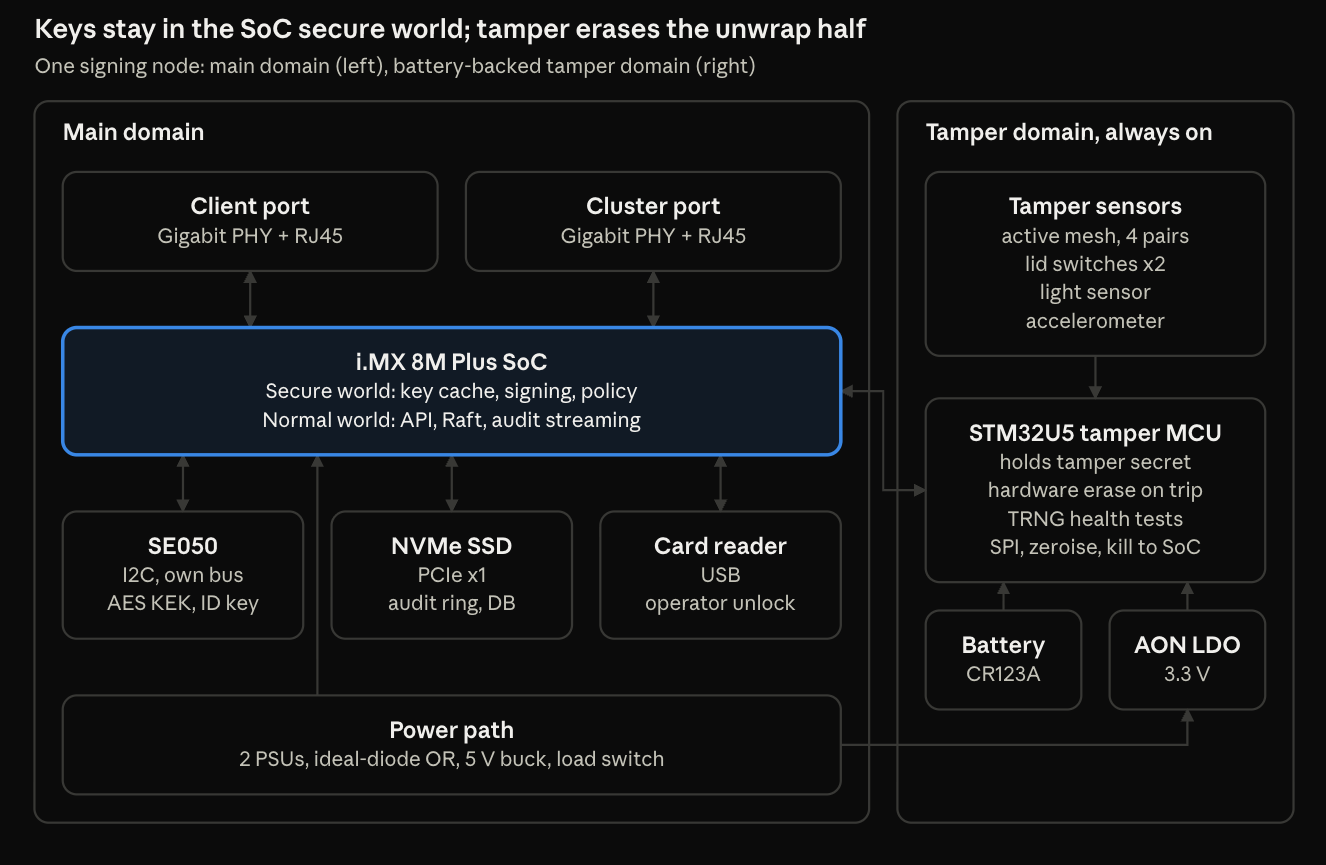
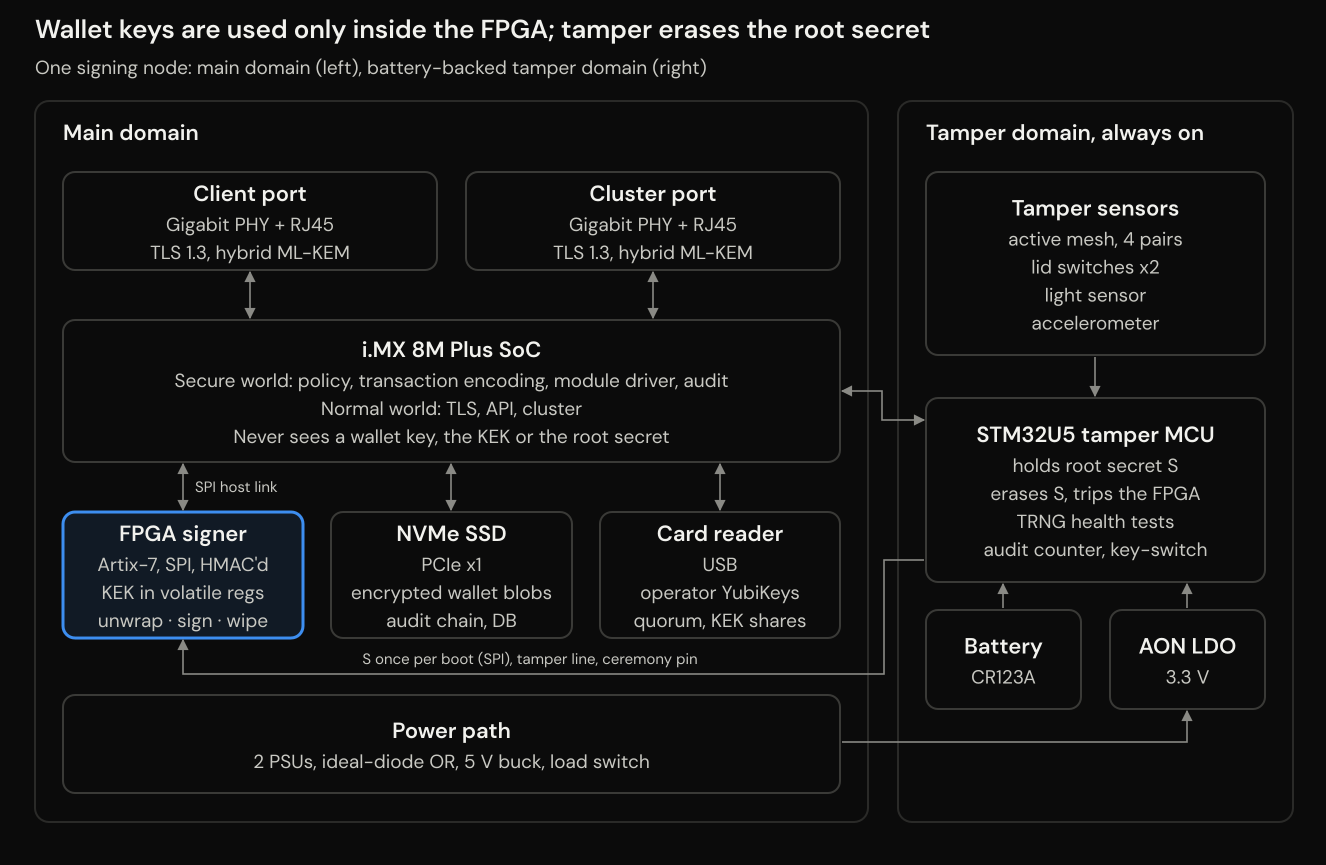
Parts

diff --git a/README.md b/README.md
@@ -2,68 +2,185 @@
 
 An open-source, DIY hardware security module designed to run as a redundant cluster for high-throughput crypto wallet signing.
 
-OpenVault is a reference design for building your own HSM cluster from off-the-shelf parts. It includes open hardware, open firmware and reproducible builds. A six-node cluster across two sites sustains **1,000 signed transfers per second** even with a whole site offline, and each node holds **10,000 wallets** derived from a single root seed.
+OpenHSM is a reference design for building your own HSM cluster from off-the-shelf parts. It includes open hardware, open firmware and reproducible builds. Each node signs with an FPGA that does one job, secp256k1 ECDSA for Ethereum and Bitcoin, at an estimated **28 to 55 signatures per second per node**, and any node can sign for any of **10,000 wallets** because the FPGA keeps no wallet state. Throughput grows with the number of nodes; see [Estimated throughput](#estimated-throughput).
 
 ## Highlights
 
-- **Keys never leave the secure world.** Signing runs inside OP-TEE on an NXP i.MX 8M Plus. An NXP SE050 secure element and a battery-backed STM32U5 tamper supervisor each hold half of the node's unwrap key.
-- **Active tamper response.** A mesh enclosure, lid switches, a light sensor and an accelerometer trigger hardware erasure of the unwrap secret.
+- **Wallet keys are only used inside the FPGA.** A Xilinx Artix-7 signing module generates wallet keys, unwraps them under the cluster key-encryption key (KEK) and signs. Keys are stored only as AES-256-GCM blobs. The NXP i.MX 8M Plus handles TLS, policy and transaction encoding but never sees a private key, the KEK or the root secret.
+- **Authenticated host link.** Every command and every response between the SoC and the FPGA carries an HMAC, over an SPI link fast enough for future post-quantum signatures.
+- **Active tamper response.** A battery-backed STM32U5 supervisor holds the root secret S. A mesh enclosure, lid switches, a light sensor and an accelerometer make it erase S and clear the FPGA's key registers.
 - **Built for failure.** Raft replication with a keyless witness at a third site. Failover takes under 5 s, and the cluster survives the loss of a full site.
 - **Policy enforced on the HSM.** Per-wallet spending caps, allow-lists and leased daily limits stop a compromised application server from draining funds.
-- **Layered backup.** Live replicas, encrypted off-site snapshots, and a root seed split 3-of-5 with SLIP-39.
-- **Multi-chain.** Supports secp256k1 ECDSA, BIP-340 Schnorr and Ed25519, covering Bitcoin, Ethereum and EVM chains, Solana, Cosmos and more.
+- **Layered backup.** Live replicas, encrypted off-site snapshots, and the KEK split m-of-n with Shamir sharing, one share per operator card (YubiKey).
+- **Ethereum and Bitcoin.** secp256k1 ECDSA only, done in hardware: Ethereum and EVM transactions (EIP-1559, EIP-155, ERC-20) and Bitcoin native SegWit (P2WPKH). BIP-340 Schnorr and Ed25519 are not supported.
 - **Preparing for post-quantum Ethereum.** Hybrid ML-KEM TLS on every network link, an SPI host link with room for kilobyte hash-based signatures, and a Keccak-256 core in the FPGA. The plan for Ethereum's move to hash-based signatures is in [docs/POST_QUANTUM.md](docs/POST_QUANTUM.md).
 
 ## What's in this repo
 
 Schematics and signal-level netlists, a full bill of materials, cluster architecture, capacity maths, the key hierarchy and ceremony, disaster-recovery runbooks, and a build and test checklist.
 
-> **Note:** OpenVault is not FIPS 140-3 or Common Criteria certified. Where regulation or insurance requires certified key storage, use it for development or lower-value hot wallets, or keep the root seed in a certified device. Benchmark on your own hardware before going live.
+> **Note:** OpenHSM is not FIPS 140-3 or Common Criteria certified. Where regulation or insurance requires certified key storage, use it for development or lower-value hot wallets, or keep the KEK backups in a certified device. Benchmark on your own hardware before going live.
 
 ![OpenHSM Site Architecture](./OpenHSM_Site_Architecture.png)
 
 ![OpenHSM Node Architecture](./OpenHSM_Architecture.png)
 
+# Estimated throughput
+
+Every node can sign for every wallet, so cluster throughput is the per-node rate times the number of nodes serving requests. The per-node rate is set by the FPGA:
+
+| Signature check (`VERIFY_SIGN`) | Time per request | Per node |
+|---|---|---|
+| On (default): each signature is checked before release, which catches fault attacks | 34.9 ms | **28.6 sig/s** |
+| Off | 18.2 ms | **54.9 sig/s** |
+
+| Nodes | All nodes up, check on | All nodes up, check off | One node down, check on | One node down, check off |
+|---|---|---|---|---|
+| 2 | 57 | 110 | 29 | 55 |
+| 3 | 86 | 165 | 57 | 110 |
+| 4 | 115 | 220 | 86 | 165 |
+| 5 | 143 | 275 | 115 | 220 |
+| 6 | 172 | 330 | 143 | 275 |
+| 7 | 201 | 385 | 172 | 330 |
+| 8 | 229 | 440 | 201 | 385 |
+| 9 | 258 | 495 | 229 | 440 |
+| 10 | 287 | 549 | 258 | 495 |
+
+Signatures per second, rounded. For two sites with one site lost, read the row for the nodes left standing (six nodes across two sites: the row for 3).
+
+How these were worked out, and what they leave out:
+
+- The FPGA time is from simulation at a 100 MHz clock: 3,469,730 cycles per signature with the check on (34.7 ms), plus about 0.2 ms on the 12.5 MHz SPI link. Nothing has been measured on hardware.
+- The SoC's own work per request (TLS, request signature check, policy, transaction encoding, audit write) is assumed to keep up with the FPGA. It has not been measured on the i.MX 8M Plus.
+- Load is assumed to spread evenly across nodes, and signing needs no cluster round trip (spending limits use leases).
+- The RTL does not yet fit the XC7A50T (see the bill of materials). A larger part or a smaller design does not change these rates.
+
+The earlier target of 1,000 signatures per second would need 35 nodes with the check on, or 19 with it off. The ways to raise the per-node rate are a second signer core in the FPGA (section 9 of the [FPGA specification](FPGA/README.md)) or a faster clock after timing closure.
+
+# Market competitiveness
+
+The HSM market was worth roughly US$2 billion in 2026 and is forecast to grow 10 to 15% a year ([Mordor Intelligence](https://www.mordorintelligence.com/industry-reports/hardware-security-modules-market), [MarketsandMarkets](https://www.marketsandmarkets.com/Market-Reports/hardware-security-modules-market-162277475.html)). Payment processing is the largest use; blockchain and crypto custody is a smaller, faster-growing part, pushed in Europe by MiCA. A few vendors (Thales, Entrust, Utimaco) dominate, and appliances typically sell for US$20,000 to 50,000 each before licences ([ABI Research](https://abiresearch.com/market-research/insight/7783874-nitrokey-hsm-a-tough-sell-in-a-highly-dema)). Much institutional crypto custody has moved to MPC platforms such as Fireblocks, BitGo and Cobo instead of HSMs.
+
+| | OpenHSM (this design) | Securosys Primus X | Thales Luna Network HSM 7 | AWS CloudHSM | Nitrokey NetHSM | MPC platforms (e.g. Fireblocks) |
+|---|---|---|---|---|---|---|
+| Kind | Open hardware HSM node, crypto-only | Appliance with blockchain features | General-purpose appliance | Rented HSM | Open-source general-purpose appliance | Software key shares, managed service |
+| Price | About US$640–1,200 per node in one-off parts ([costing](#estimated-cost-per-node)) | Not published | Not published; market typical US$20,000–50,000 | US$1.60 an hour per HSM, about US$1,150 a month | Under €10,000 | Subscription, not published |
+| Elliptic-curve signing speed per unit | 28.6–55 sig/s (estimate, secp256k1) | 30,000 ECC-256 per second (X2P EC) | Over 20,000 ECC operations per second | Not compared here | "Thousands" of key operations per second | Software; not HSM-bound |
+| Certification | None | FIPS 140 validated | FIPS validated | FIPS validated | Not checked | Depends on provider |
+| Source code | Hardware, RTL and software all open | Closed | Closed | Closed | Open | Closed |
+| Crypto policy inside the HSM (limits, allow-lists) | Yes | Blockchain-specific features | No | No | No | Yes, in the platform |
+| Post-quantum | Hybrid ML-KEM TLS now; hash-based signing planned ([plan](docs/POST_QUANTUM.md)) | PQC and hybrid signatures supported | PQC listed | Not covered here | Not covered here | Not covered here |
+
+Vendor figures are as each vendor publishes them and are not directly comparable: they are for general ECC (usually P-256) on production hardware, against an estimate for secp256k1 from simulation.
+
+**Where OpenHSM can win**
+
+- **Cost.** A first costing puts a node at about US$640–1,200 in one-off parts ([details](#estimated-cost-per-node)). Ten nodes, about 290 signatures a second today, come to roughly US$6,400–12,000: less than one US$20,000–50,000 appliance, and with no single point of failure.
+- **Transparency.** Everything is open down to the signing logic in the FPGA, not just the firmware. Buyers can audit what signs their keys, and there is no vendor to trust with backdoors or end-of-life decisions.
+- **Built for crypto custody.** Spending caps, allow-lists and daily limits are enforced on the HSM, so a compromised application server cannot drain wallets. General-purpose HSMs leave that to the application.
+- **No counterparty.** Self-hosted, unlike rented or managed custody.
+- **Early on Ethereum's post-quantum path.** The host link, hash core and key-transfer design are already aimed at Ethereum's move to hash-based signatures.
+
+**Where it does not compete yet**
+
+- **Throughput.** Commercial appliances are roughly 400 to 1,000 times faster per unit. OpenHSM makes up for it only by running many cheap nodes. A second signer core and a larger FPGA are the main levers.
+- **Certification.** Without FIPS 140-3 or Common Criteria it cannot be the key store of a regulated or qualified custodian, which is where much of the growth is (MiCA). See [Compliance mapping](docs/COMPLIANCE.md).
+- **Maturity.** No hardware has been built, the FPGA design does not yet fit the chosen part, and there has been no independent review.
+- **Scope.** secp256k1 only: no Ed25519 or Schnorr chains, no general PKI or payment use.
+- **Support.** No company behind it, no service-level agreement.
+
+**Best fit today:** smaller exchanges, funds, DAOs and Web3 teams who want to hold their own Ethereum and Bitcoin keys, cannot justify US$20,000+ appliances or a managed-custody subscription, and value an auditable design over certification. Also suitable for research and teaching.
+
+Sources: [Securosys Primus X2 factsheet](https://securosys.com/hubfs/2%20WEBSITE%20/2.1%20Products%20/2.1%20Factsheets/202502_Factsheet_X2_EN_v2.1.pdf), [Securosys Primus HSM docs](https://docs.securosys.com/primus-hsm/overview), [Thales Luna Network HSM 7](https://cpl.thalesgroup.com/encryption/hardware-security-modules/luna-7-network-hsm), [AWS: KMS or CloudHSM](https://aws.amazon.com/blogs/security/aws-kms-or-aws-cloudhsm-choose-the-right-key-management-solution/), [Nitrokey NetHSM](https://www.nitrokey.com/files/doc/Nitrokey_NetHSM_factsheet.pdf), [DigiKey XC7A50T-1FTG256C](https://www.digikey.de/en/products/detail/amd/XC7A50T-1FTG256C/5039080), [Variscite i.MX 8M Plus modules](https://shop.variscite.com/product/evaluation-kit/var-smarc-mx8m-plus-evaluation-kits/). Prices and figures checked 25 November 2026.
+
 # System Requirements
 
 | Target | Value |
 |--------|-------|
-| Sustained signing | 1,000 sig/s with one site (3 nodes) lost |
-| Burst | 3,000 sig/s for 60 s with all nodes up |
-| Sign latency | p99 under 50 ms at the HSM API |
+| Signing rate | See [Estimated throughput](#estimated-throughput) |
+| Sign latency | p99 under 50 ms at the HSM API (the FPGA takes about 35 ms per signature) |
 | Wallets | 10,000 per partition, every node holds every partition |
-| Curves | secp256k1 ECDSA + Schnorr (BIP-340), Ed25519 |
+| Curves | secp256k1 ECDSA |
 | Node failover | under 5 s, no lost requests (client retries with idempotency key) |
 | Wallet-creation RPO | 0: a wallet exists only once written to a quorum |
 | Site-loss RTO | under 30 s |
 
 # Bill of Materials
 
+Per node. Matches the [carrier schematic](hardware/kicad/openhsm-carrier/README.md) (draft 0.2); reference designators in brackets.
+
 | Qty | Item | Notes |
 |-----|------|-------|
-| 1 | [i.MX 8M Plus quad SOM, 4–8 GB LPDDR4, 32 GB eMMC](https://shop.variscite.com/product/system-on-module/dart-mx8m-plus-system-on-module/?_gl=1*1tdgpdy*_gcl_aw*R0NMLjE3OTM4MzU1MTQuQ2p3S0NBaUF6S3ZYQmhCQUVpd0FCTGw5QXRQTlVjNzJwclB3bHdyQUxXaU11WmV0MVF0VFYwZ19vOUhuVzBOa0VpdUNndDZXMWdxMWRCb0N2VklRQXZEX0J3RQ..*_gcl_au*MTU5MTc4NDg4OS4xNzkzODM1MzAyLi0uLS4xNzkzODM1MzAxLjczODA5NjYyNi4xNzkzODM1MzAyLjE3OTM4MzU1MTM.*_ga*MTM0NTY1MDA2OS4xNzkzODM1Mjk3*_ga_HXGNGLZXPK*czE3OTM4MzUyOTUkbzEkZzEkdDE3OTM4MzU1MTMkajQkbDAkaDA.#sf_source=direct) [Dev kit](https://www.mouser.co.uk/en/ProductDetail/NXP-Semiconductors/8MPLUSLPD4-EVK?qs=sGAEpiMZZMv0WPLDnYsI7z%252BJKhWGmFt4C%252BT8bKH1DJMnMT5qg1wHVg%3D%3D) | Pick a vendor that publishes HAB secure-boot docs and mainline U-Boot/OP-TEE support |
-| 1 | Custom carrier PCB, 6-layer | Section 5 |
-| 1 | [NXP SE050 (AES + P-256 variant)](https://www.mouser.co.uk/en/ProductDetail/NXP-Semiconductors/SE050C1HQ1-Z01SCZ?qs=uwxL4vQweFPAe9Cpm7Fm%252BQ%3D%3D) | 5.3 |
-| 1 | [STM32U5, LQFP64, not U575/585 rev X](https://www.mouser.co.uk/en/ProductDetail/STMicroelectronics/STM32U595RJT6Q?qs=sGAEpiMZZMuI9neUTtPr757IDD%2FwidVOeNx%252BK87m1RZ2F32QVOiwxQ%3D%3D) | Tamper Supervisor |
-| 1 | [Low-power 3-axis accelerometer](https://www.mouser.co.uk/en/ProductDetail/STMicroelectronics/AIS328DQTR?qs=LYO3r17CQdPWOQ2wXNVBxw%3D%3D) | Tamper: movement |
-| 1 | Photodiode + comparator | Tamper: light |
-| 2 | [Normally-closed microswitch](https://www.mouser.co.uk/en/ProductDetail/TE-Connectivity-Alcoswitch/SAJ101XRHLN74SDTPTQ?qs=7MVldsJ5UazROW4Ax1GBQQ%3D%3D&mgh=1&vip=1&utm_id=20797887765&utm_source=google&utm_medium=cpc&utm_marketing_tactic=emeacorp&gad_source=1&gad_campaignid=20808116062&gclid=CjwKCAiAzKvXBhBAEiwABLl9AkOKdimXGZGH7wUT0jrg68YRtqmUqSESL2dKNqFZ-Koe49nV-s2gixoCz8EQAvD_BwE) | Tamper: lid |
-| 1 | Mesh flex PCB, 4 serpentine pairs, 0.15 mm | Wraps the inner can |
-| 1 | [CR123A cell](https://uk.farnell.com/panasonic/cr-123apa-be/battery-lithium-3v-1400mah-cr123/dp/1845622?cjdata=MXxZfDB8WXww&gross_price=true&CMP=AFC-CJ-UK-7947610&source=CJ&cjevent=dd7914bed89a11f1814f00a90a1981a1&loyaltysignal=0) + [holder](https://uk.farnell.com/multicomp-pro/mp000356/battery-holder-cr123a-pcb/dp/3126594?cjdata=MXxZfDB8WXww&gross_price=true&CMP=AFC-CJ-UK-8989328&source=CJ&cjevent=92bb662bd89a11f182d400a90a1981f9&loyaltysignal=0) | Tamper domain |
-| 2 | [Gigabit RGMII PHY](https://www.mouser.co.uk/en/ProductDetail/Texas-Instruments/DP83825IRMQT?qs=B6kkDfuK7%2FBiCk9ZFiDEMg%3D%3D&mgh=1&vip=1&utm_id=20797887759&utm_source=google&utm_medium=cpc&utm_marketing_tactic=emeacorp&gad_source=1&gad_campaignid=20808115849&gclid=CjwKCAiAzKvXBhBAEiwABLl9Ap4k74rQ5ePk6MVCnfHhNI17cvC-JPekhytu_yIwNwCDDR4bKR0jOxoC3lIQAvD_BwE) + [RJ45 magjack](https://www.mouser.co.uk/en/ProductDetail/Molex/85793-1020?qs=VBGyBZiQP4EPajPaXkZR%252BA%3D%3D) | Client and cluster ports |
-| 1 | 256–512 GB M.2 NVMe, high-endurance | Audit ring |
-| 2 | [LM74700](https://www.mouser.co.uk/en/ProductDetail/Texas-Instruments/LM74704QDDFRQ1?qs=mELouGlnn3dgFSYOQXVXjA%3D%3D&mgh=1&vip=1&utm_id=20808080842&utm_source=google&utm_medium=cpc&utm_marketing_tactic=emeacorp&gad_source=1&gad_campaignid=20808080812&gclid=CjwKCAiAzKvXBhBAEiwABLl9Alhtq4ZNdIovGkdIL2Zf1yClDieCJzJEEKnumljLAqRaUojJHH51WxoC3aYQAvD_BwE) + [N-FET](https://www.mouser.co.uk/en/ProductDetail/STMicroelectronics/STN4NF03L?qs=QUuoqGqE2XUgPLBORZvXqA%3D%3D&mgh=1&vip=1&utm_id=20808080842&utm_source=google&utm_medium=cpc&utm_marketing_tactic=emeacorp&gad_source=1&gad_campaignid=20808080812&gclid=CjwKCAiAzKvXBhBAEiwABLl9AlAelF3J2_p8z70bVCgeFC2-hFT7duyeSD5_rafjo7THNkuYpd7n3BoCHYcQAvD_BwE) | Power ORing |
-| 1 | [12 V to 5 V 6 A buck](https://www.mouser.co.uk/en/ProductDetail/MEAN-WELL/PSD-45A-5?qs=sGAEpiMZZMsc0tfZmXiUnQDHQLsQHd4KvFzg3hJUk%252BsM23tWxVLv2Q%3D%3D), [5 V load switch](https://www.mouser.co.uk/en/ProductDetail/Texas-Instruments/TPS2117DRLR?qs=HoCaDK9Nz5c%2FKe5lpCPPWQ%3D%3D&mgh=1&vip=1&utm_id=20808080842&utm_source=google&utm_medium=cpc&utm_marketing_tactic=emeacorp&gad_source=1&gad_campaignid=20808080812&gclid=CjwKCAiAzKvXBhBAEiwABLl9AnE_74_UEMQNaMWHqmRKGfrUVJKx0imlvLxc8OIwBcspy7oYQlbFihoCFu8QAvD_BwE), [3.3 V low-Iq LDO](https://www.mouser.co.uk/en/ProductDetail/STMicroelectronics/LD1117AS33TR?qs=C3bf%2FVrkE5CoDDd7wyn%252BaQ%3D%3D&mgh=1&vip=1&utm_id=20808080842&utm_source=google&utm_medium=cpc&utm_marketing_tactic=emeacorp&gad_source=1&gad_campaignid=20808080812&gclid=CjwKCAiAzKvXBhBAEiwABLl9AuGsVfJnj3fxUe93P8Jwq_0CBk6TtWfPvZnCnAFySMGqfUHCzOpg3RoCK1EQAvD_BwE), [supervisor](https://www.mouser.co.uk/en/ProductDetail/Texas-Instruments/TLV803EA43VDBZR?qs=eP2BKZSCXI4fg9n64ahjIg%3D%3D&mgh=1&vip=1&utm_id=20808080842&utm_source=google&utm_medium=cpc&utm_marketing_tactic=emeacorp&gad_source=1&gad_campaignid=20808080812&gclid=CjwKCAiAzKvXBhBAEiwABLl9Al3fAqFDU0GygOMDyirvrQ4mGpkdHifHOYjOnVYpTf5g158BMkclORoCbIUQAvD_BwE) | 5.1 |
-| 1 | Transistor, op-amp, passives for avalanche TRNG | 5.4 |
-| 1 | Inner steel can, potting compound, 1U chassis, heatsink | 5.6 |
-| 2 | [12 V PSU](https://www.mouser.co.uk/en/ProductDetail/TRACO-Power/TPP-65-321M2?qs=sGAEpiMZZMs2%252BVrH5rwl1id2VXUzi3Lii24GqnUNwzGlvbhsaKOHlw%3D%3D) | One per PDU |
-| 1 | USB CCID smartcard reader | Front panel |
+| 1 | [Variscite DART-MX8M-PLUS: i.MX 8M Plus quad SOM, 4–8 GB LPDDR4, 32 GB eMMC](https://shop.variscite.com/product/system-on-module/dart-mx8m-plus-system-on-module/?_gl=1*1tdgpdy*_gcl_aw*R0NMLjE3OTM4MzU1MTQuQ2p3S0NBaUF6S3ZYQmhCQUVpd0FCTGw5QXRQTlVjNzJwclB3bHdyQUxXaU11WmV0MVF0VFYwZ19vOUhuVzBOa0VpdUNndDZXMWdxMWRCb0N2VklRQXZEX0J3RQ..*_gcl_au*MTU5MTc4NDg4OS4xNzkzODM1MzAyLi0uLS4xNzkzODM1MzAxLjczODA5NjYyNi4xNzkzODM1MzAyLjE3OTM4MzU1MTM.*_ga*MTM0NTY1MDA2OS4xNzkzODM1Mjk3*_ga_HXGNGLZXPK*czE3OTM4MzUyOTUkbzEkZzEkdDE3OTM4MzU1MTMkajQkbDAkaDA.#sf_source=direct) [Dev kit](https://www.mouser.co.uk/en/ProductDetail/NXP-Semiconductors/8MPLUSLPD4-EVK?qs=sGAEpiMZZMv0WPLDnYsI7z%252BJKhWGmFt4C%252BT8bKH1DJMnMT5qg1wHVg%3D%3D) | SoC (U501). Pick a configuration with HAB secure-boot docs and mainline U-Boot/OP-TEE support |
+| 1 | Custom carrier PCB, 6-layer | [KiCad schematics](hardware/kicad/openhsm-carrier/README.md) |
+| 1 | Xilinx Artix-7 XC7A50T-1FTG256C FPGA | Signing module (U201). Size not confirmed: a first synthesis estimate of the RTL needs about 88,800 LUTs against this part's 32,600. The XC7A100T-1FTG256C comes in the same package ([details](docs/POST_QUANTUM.md#8-fpga-capacity)) |
+| 1 | MX25L3233F 32 Mbit SPI flash | FPGA configuration (U202) |
+| 1 | Abracon ASE 100 MHz oscillator | FPGA system clock (X201) |
+| 1 | [STM32U595RJT6Q, LQFP64](https://www.mouser.co.uk/en/ProductDetail/STMicroelectronics/STM32U595RJT6Q?qs=sGAEpiMZZMuI9neUTtPr757IDD%2FwidVOeNx%252BK87m1RZ2F32QVOiwxQ%3D%3D) + 32.768 kHz crystal | Tamper supervisor (U301, Y301). Not U575/585 rev X |
+| 1 | [ADXL363 3-axis accelerometer](https://www.analog.com/en/products/adxl363.html) | Tamper: movement (U402); about 270 nA in motion-wake mode, suits the battery domain |
+| 1 | BPW34 photodiode + TLV7031 comparator | Tamper: light (D401, U401) |
+| 2 | [Normally-closed microswitch](https://www.mouser.co.uk/en/ProductDetail/TE-Connectivity-Alcoswitch/SAJ101XRHLN74SDTPTQ?qs=7MVldsJ5UazROW4Ax1GBQQ%3D%3D&mgh=1&vip=1&utm_id=20797887765&utm_source=google&utm_medium=cpc&utm_marketing_tactic=emeacorp&gad_source=1&gad_campaignid=20808116062&gclid=CjwKCAiAzKvXBhBAEiwABLl9AkOKdimXGZGH7wUT0jrg68YRtqmUqSESL2dKNqFZ-Koe49nV-s2gixoCz8EQAvD_BwE) | Tamper: lid, off-board on J402 and J403 |
+| 1 | Mesh flex PCB, 4 serpentine pairs, 0.15 mm | Wraps the inner can; connects on J401 |
+| 1 | [CR123A cell](https://uk.farnell.com/panasonic/cr-123apa-be/battery-lithium-3v-1400mah-cr123/dp/1845622?cjdata=MXxZfDB8WXww&gross_price=true&CMP=AFC-CJ-UK-7947610&source=CJ&cjevent=dd7914bed89a11f1814f00a90a1981a1&loyaltysignal=0) + [holder](https://uk.farnell.com/multicomp-pro/mp000356/battery-holder-cr123a-pcb/dp/3126594?cjdata=MXxZfDB8WXww&gross_price=true&CMP=AFC-CJ-UK-8989328&source=CJ&cjevent=92bb662bd89a11f182d400a90a1981f9&loyaltysignal=0) | Tamper domain (BT101) |
+| 1 | BAT54C diode-OR + XC6206P332 3.3 V low-Iq LDO | Always-on tamper supply: mains-derived 3.3 V or the cell (D, U109) |
+| 1 | TLV803EA43 voltage supervisor | 5 V monitor (U110) |
+| 1 | KSZ9031RNX gigabit RGMII PHY + 25 MHz crystal | Cluster port (U601, Y601). The client port uses the SOM's own PHY |
+| 2 | [RJ45 gigabit magjack](https://www.mouser.co.uk/en/ProductDetail/Molex/85793-1020?qs=VBGyBZiQP4EPajPaXkZR%252BA%3D%3D) | Client and cluster ports |
+| 1 | 256–512 GB M.2 2280 NVMe, high-endurance, + M.2 M-key socket | Audit ring and database (J701) |
+| 2 | [LM74700-Q1 ideal-diode controller](https://www.ti.com/product/LM74700-Q1) + [STN4NF03L N-FET](https://www.mouser.co.uk/en/ProductDetail/STMicroelectronics/STN4NF03L?qs=QUuoqGqE2XUgPLBORZvXqA%3D%3D&mgh=1&vip=1&utm_id=20808080842&utm_source=google&utm_medium=cpc&utm_marketing_tactic=emeacorp&gad_source=1&gad_campaignid=20808080812&gclid=CjwKCAiAzKvXBhBAEiwABLl9AlAelF3J2_p8z70bVCgeFC2-hFT7duyeSD5_rafjo7THNkuYpd7n3BoCHYcQAvD_BwE) + SMBJ15A TVS | 12 V feed A/B ORing and protection (U101/U102, Q101/Q102) |
+| 1 | [MEAN WELL PSD-45A-5, 12 V to 5 V 6 A](https://www.mouser.co.uk/en/ProductDetail/MEAN-WELL/PSD-45A-5?qs=sGAEpiMZZMsc0tfZmXiUnQDHQLsQHd4KvFzg3hJUk%252BsM23tWxVLv2Q%3D%3D) | Main 5 V (on J103) |
+| 2 | TPS62130 3 A buck | 3.3 V main and 3.3 V NVMe (U104, U105) |
+| 1 | TLV62569 buck | FPGA core 1.0 V (U106) |
+| 2 | AP2112K LDO (1.8 V, 1.2 V) | FPGA VCCAUX/IO 1.8 V, PHY core 1.2 V (U107, U108) |
+| 2 | TPS22917 load switch | SoC kill switch driven by the tamper MCU (U103); USB power (U701) |
+| 1 | MMBT3904 + MCP6001 op-amp + passives | Avalanche-noise TRNG source (Q401, U403) |
+| 1 | USB-A socket + USBLC6-2P6 ESD protection | Front-panel USB for the card reader (J702, U702) |
+| 1 | Passives (68 resistors, 96 capacitors), inductors, LEDs, connectors | Draft quantities from the schematic |
+| 1 | Inner steel can, potting compound, 1U chassis, heatsink | Enclosure |
+| 2 | [12 V PSU, TRACO TPP 65-112 (65 W)](https://uk.farnell.com/tracopower/tpp-65-112/power-supply-medical-ac-dc-12v/dp/2829810) | One per PDU, into the 12 V feeds A and B (J101, J102) |
+| 1 | USB CCID smartcard reader | Front panel, for operator YubiKeys |
 
+## Estimated cost per node
 
+First costing, 25 November 2026, at one-off (quantity 1) distributor prices in US dollars. Parts follow the list above. "est" marks a figure estimated from similar parts rather than a quoted price.
+
+| Qty | Item | US$ | Basis |
+|---|---|---|---|
+| 1 | i.MX 8M Plus SOM, quad, 4 GB LPDDR4, 32 GB eMMC (DART-MX8M-PLUS) | 110–190 | est: Variscite from $59-79 for the smallest config; comparable 4 GB modules ~€100 (Olimex) to ~$190 (ADLINK 4G/32G) |
+| 1 | FPGA XC7A50T-1FTG256C | 65–76 | DigiKey €59.55 ex VAT; Octopart $75.85 |
+| 1 | FPGA config flash MX25L3233F + 100 MHz oscillator | 2–4 | est |
+| 1 | STM32U595RJT6Q tamper MCU | 14 | DigiKey $14.41 |
+| 1 | ADXL363 accelerometer | 8–9 | Mouser $7.57, DigiKey $9.42 |
+| 1 | Light sensor: BPW34 + MCP6001/TLV7031 | 2–3 | est |
+| 2 | Lid microswitches (NC) | 3–6 | est |
+| 1 | Mesh flex PCB, 4 serpentine pairs | 10–30 | est (flex PCB prototype pricing) |
+| 1 | CR123A cell + holder | 4–8 | est |
+| 1 | KSZ9031RNX gigabit PHY (cluster port; client port uses the SOM's PHY) | 3–6 | DigiKey $2.80, LCSC $5.75 |
+| 2 | RJ45 magjack | 8–16 | est |
+| 1 | M.2 NVMe 256 GB, industrial | 40–177 | $40 consumer high-endurance (est) to $177 Kingston Industrial (CDW) |
+| 2 | Power ORing: LM74700-Q1 + N-FET | 4–7 | est |
+| 1 | 12 V to 5 V 6 A converter, MEAN WELL PSD-45A-5 | 13–21 | DigiKey $13.38, TRC $20.64 |
+| 1 | Other regulators, supervisor, protection, crystals, inductors | 10–18 | est (TPS62130 x2, TLV62569, AP2112 x2, TPS22917 x2, XC6206, TLV803, BAT54C, USBLC6, SMBJ15A x2) |
+| 1 | Passives (68 R, 96 C), LEDs, connectors, M.2 and USB sockets | 12–25 | est |
+| 1 | Carrier PCB, 6-layer | 15–40 | est (JLCPCB 6-layer prototypes from $35 per 5 pcs at 10x10 cm; board is larger) |
+| 1 | PCB assembly incl. BGA | 30–80 | est (JLCPCB setup ~$25 + per joint; BGA extra) |
+| 2 | 12 V PSU, TRACO TPP 65-112 | 94–112 | Mouser/DigiKey ~$55; RS £47.44 |
+| 1 | 1U chassis | 150–270 | In Win / P-Link short-depth 1U, $154-266 |
+| 1 | Inner steel can, potting, heatsink | 25–60 | est |
+| 1 | USB CCID smartcard reader | 15–30 | est |
+| | **Total per node** | **637–1,202** | |
+
+- **About US$1,000 per node** is a fair working figure. The electronics on the carrier come to about US$310–550; the chassis, power supplies and NVMe drive are about half the total.
+- **Per cluster**, add the operator cards: five YubiKey 5 NFC at US$58 each (US$290) for a 3-of-5 split. A six-node cluster is then roughly US$4,100–7,500 in parts.
+- **Not included:** VAT, shipping and tariffs, stencils and one-off setup fees, assembly labour for the enclosure and potting, testing, and engineering time.
+- **Biggest uncertainties:** the SOM in the 4 GB / 32 GB configuration (Variscite quotes this on request), PCB and assembly cost at the final board size, and the enclosure. If the RTL needs the XC7A100T, add roughly the price difference between the two FPGAs.
+- Prices fall with volume: at 100 units the semiconductors are typically 15–30% cheaper (for example the STM32U595 drops from US$14.41 to US$9.79 at DigiKey).
+
+Sources: [DigiKey XC7A50T-1FTG256C](https://www.digikey.de/en/products/detail/amd/XC7A50T-1FTG256C/5039080), [Octopart XC7A50T-1FTG256C](https://octopart.com/part/amd/XC7A50T-1FTG256C), [DigiKey STM32U595](https://www.digikey.com/en/products/detail/stmicroelectronics/STM32U595RJT6/21348939), [ADXL363 distributor prices](https://www.edinventory.com/parts/adxl363bccz-rl7_analog-devices-inc), [DigiKey KSZ9031RNX](https://azcus.digikey.com/en/products/detail/microchip-technology/KSZ9031RNXCC/5049436), [PSD-45A-5 prices](https://thepartsdirect.com/part/psd45a5~meanwell), [TPP 65-112 prices](https://findchips.com/detail/tpp%2065-112/Traco-Power?f=dsa), [Kingston Industrial 256 GB NVMe](https://www.cdw.com/product/kingston-ssd-industrial-256-gb-pcie-4.0-x4-nvme/8545213), [In Win IW-RF100S 1U chassis](https://www.newegg.com/p/N82E16811108527), [Variscite i.MX 8M Plus modules](https://shop.variscite.com/product/evaluation-kit/dart-mx8m-plus-evaluation-kits/), [Olimex iMX8MP-SOM-4GB](https://www.olimex.com/Products/SOM/NXP-iMX8/iMX8MP-SOM-4GB-IND/), [JLCPCB 6-layer PCB](https://jlcpcb.com/features/prototype-pcb-way), [JLCPCB assembly pricing](https://jlcpcb.com/solutions/pcb-prototype-assembly), [YubiKey 5 NFC](https://www.yubico.com/us/product/yubikey-5-series/yubikey-5-nfc).
 
 # Software prototype (v0.5.0)
 
-The whole signing node runs in software on one machine: the FPGA signing module and tamper supervisor as models, the SoC daemon (`openhsmd`), and the operator tool (`hsmctl`). It signs Ethereum (EIP-1559, EIP-155, ERC-20 transfer) and Bitcoin (P2WPKH) transactions under per-wallet policy.
+The RTL for the signing module is in [`FPGA/`](FPGA/README.md) (V0.6, simulated). The whole signing node also runs in software on one machine: the FPGA signing module and tamper supervisor as models, the SoC daemon (`openhsmd`), and the operator tool (`hsmctl`). It signs Ethereum (EIP-1559, EIP-155, ERC-20 transfer) and Bitcoin (P2WPKH) transactions under per-wallet policy.
 
 ```bash
 cargo build --release && cargo test --release

diff --git a/hardware/kicad/openhsm-carrier/README.md b/hardware/kicad/openhsm-carrier/README.md
@@ -38,9 +38,9 @@ Run ERC in KiCad as well.
 | SoC to supervisor link (IF-05) | UART plus alert line, with 1 kΩ series resistors | The ICD leaves this open |
 | Mesh | Pair 1 on hardware active tamper (PA0 to PC13); pairs 2-4 GPIO-scanned | The LQFP64 STM32U5 has only 3 TAMP pins |
 | Fail-safe defaults | SN_TAMPER pulled up, SN_CEREMONY pulled down, FPGA_RST_N pulled down, SOC_PWR_EN pulled down | The board is safe if the MCU is in reset |
-| Tamper-domain power mux | BAT54C diode-OR | The BOM's TPS2117 has no KiCad symbol |
-| Accelerometer | ADXL363 | The BOM's AIS328DQ has no KiCad symbol; the ADXL363's ~270 nA motion wake suits the battery domain |
-| Cluster PHY | KSZ9031RNX, gigabit RGMII | The BOM link points to the DP83825I, which is 10/100 RMII |
+| Tamper-domain power mux | BAT54C diode-OR | Replaces the TPS2117 of the earlier BOM, which has no KiCad symbol. The top-level BOM now lists the BAT54C |
+| Accelerometer | ADXL363 | Replaces the AIS328DQ of the earlier BOM, which has no KiCad symbol; the ADXL363's ~270 nA motion wake suits the battery domain. The top-level BOM now lists the ADXL363 |
+| Cluster PHY | KSZ9031RNX, gigabit RGMII | The earlier BOM linked the DP83825I, which is 10/100 RMII. The top-level BOM now lists the KSZ9031RNX |
 | Client port | On-SOM gigabit PHY | The DART-MX8M-PLUS has one Ethernet PHY on the module |
 | 5 V supervisor | TLV803EA43 drawn with the TPS3839 DBZ symbol | Same SOT-23 pinout. Verify |
 

diff --git a/docs/PENETRATION_TEST_REPORT.md b/docs/PENETRATION_TEST_REPORT.md
@@ -1,5 +1,7 @@
 # OpenHSM Simulated Penetration Test Report
 
+> **Note (25 November 2026):** this report records the run against 0.5.0, when the module bus was I2C. From FPGA V0.6 (protocol 0xB3) the bus is SPI with the same registers, commands and MACs, so the bus attacks below apply unchanged to a device on the SPI host link. A re-run against 0.6 gave the same passes and findings, except that cargo-audit and bandit were not installed for that run.
+
 Target: OpenHSM prototype 0.5.0 (release binaries built from this repository) and signing-module protocols 0xB1 and 0xB2.
 Kind of test: simulated, white-box, automated. Everything runs on one machine against the real binaries; the tamper enclosure is a software model.
 

diff --git a/crates/openhsm-signer/README.md b/crates/openhsm-signer/README.md
@@ -40,7 +40,7 @@ Behaviour modelled:
 
 ### Hardening beyond protocol 0xB1
 
-The model reports protocol version **0xB3** (0xB2 on the V0.6 SPI host link) and implements the open hardening
+The model reports protocol version **0xB3**, which is protocol 0xB2 carried over the V0.6 SPI host link, and implements the open hardening
 items of the FPGA specification, intended for back-porting to the RTL:
 
 | Ext. | Feature |
